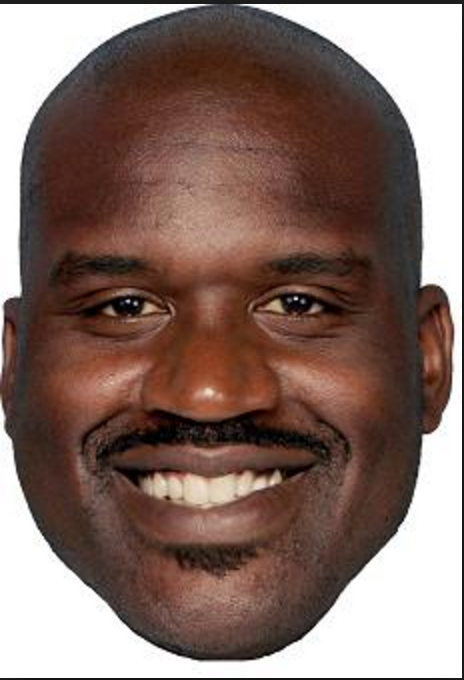
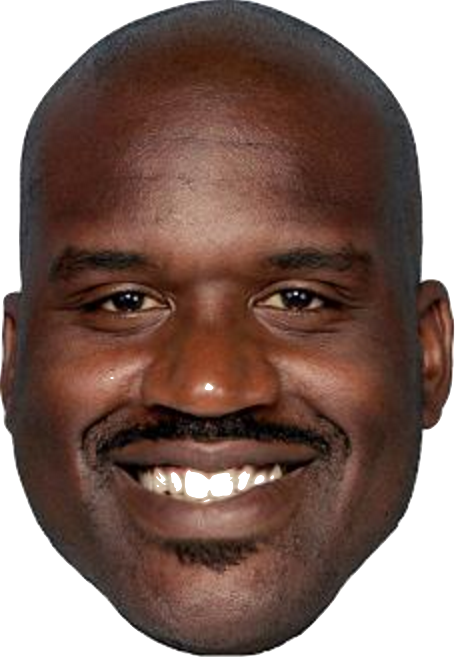
shaqtus and gh pages

diff --git a/main.js b/main.js
@@ -1,11 +1,11 @@
 
 var myGamePiece;
-
+var shaq;
 
 function startGame() {
     myGameArea.start();
     myGamePiece = new component(30, 30, "red", 10, 120);
-    var westbrook = document.getElementById("westbrook");
+    shaq = document.getElementById("shaqtus");
 }
 
 var myGameArea = {
@@ -46,7 +46,7 @@ function component(width, height, color, x, y) {
         ctx = myGameArea.context;
 //        ctx.fillStyle = color;
 //        ctx.fillRect(this.x, this.y, this.width, this.height);
-        ctx.drawImage(westbrook, this.x, this.y);
+        ctx.drawImage(shaq, this.x, this.y);
     }
     this.newPos = function() {
         this.gravitySpeed += this.gravity;
@@ -56,7 +56,7 @@ function component(width, height, color, x, y) {
         this.hitTop();
     }
     this.hitBottom = function() {
-        var rockbottom = myGameArea.canvas.height - this.height;
+        var rockbottom = myGameArea.canvas.height - 2 * this.height;
         if (this.y > rockbottom) {
             this.y = rockbottom;
             this.gravitySpeed = 0;

diff --git a/index.html b/index.html
@@ -29,6 +29,6 @@
     
     <br>
     <br>
-<img id="westbrook" width="10" height="10" src="westbrook.png" alt="The Scream">
+<img id="shaqtus" width="10" height="10" src="shaqtus.png" alt="The Scream">
     
 </body>
